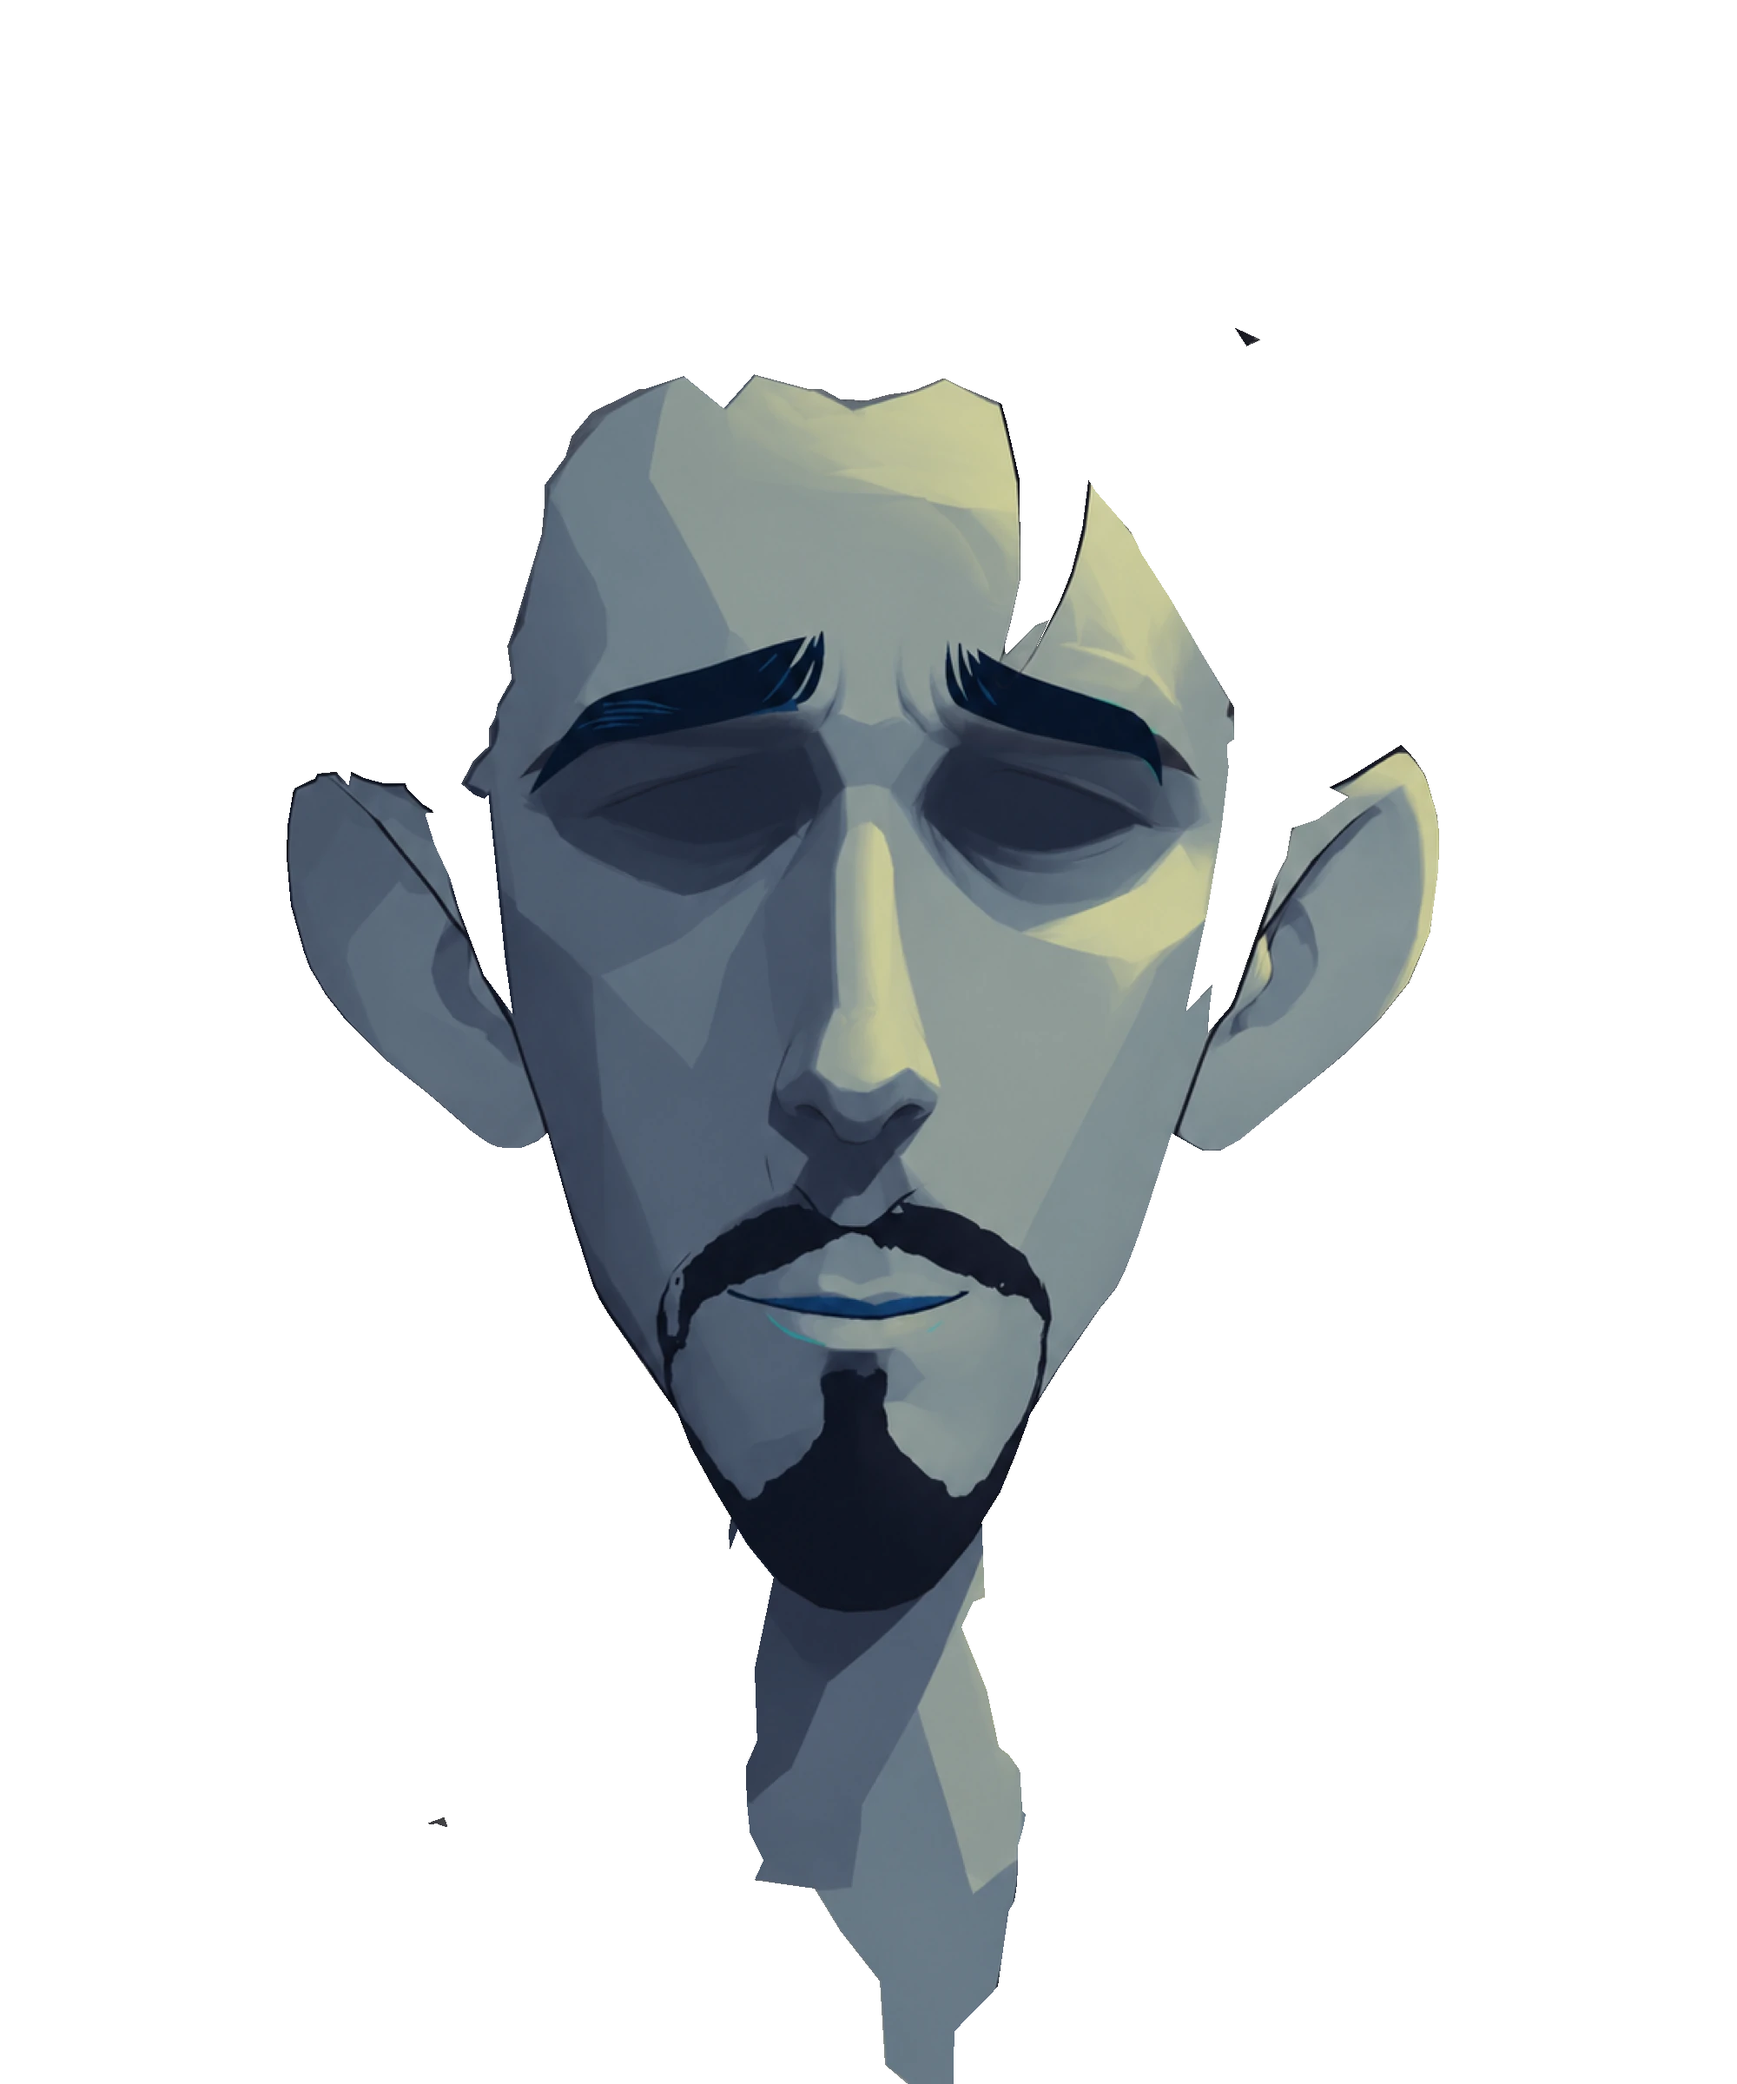
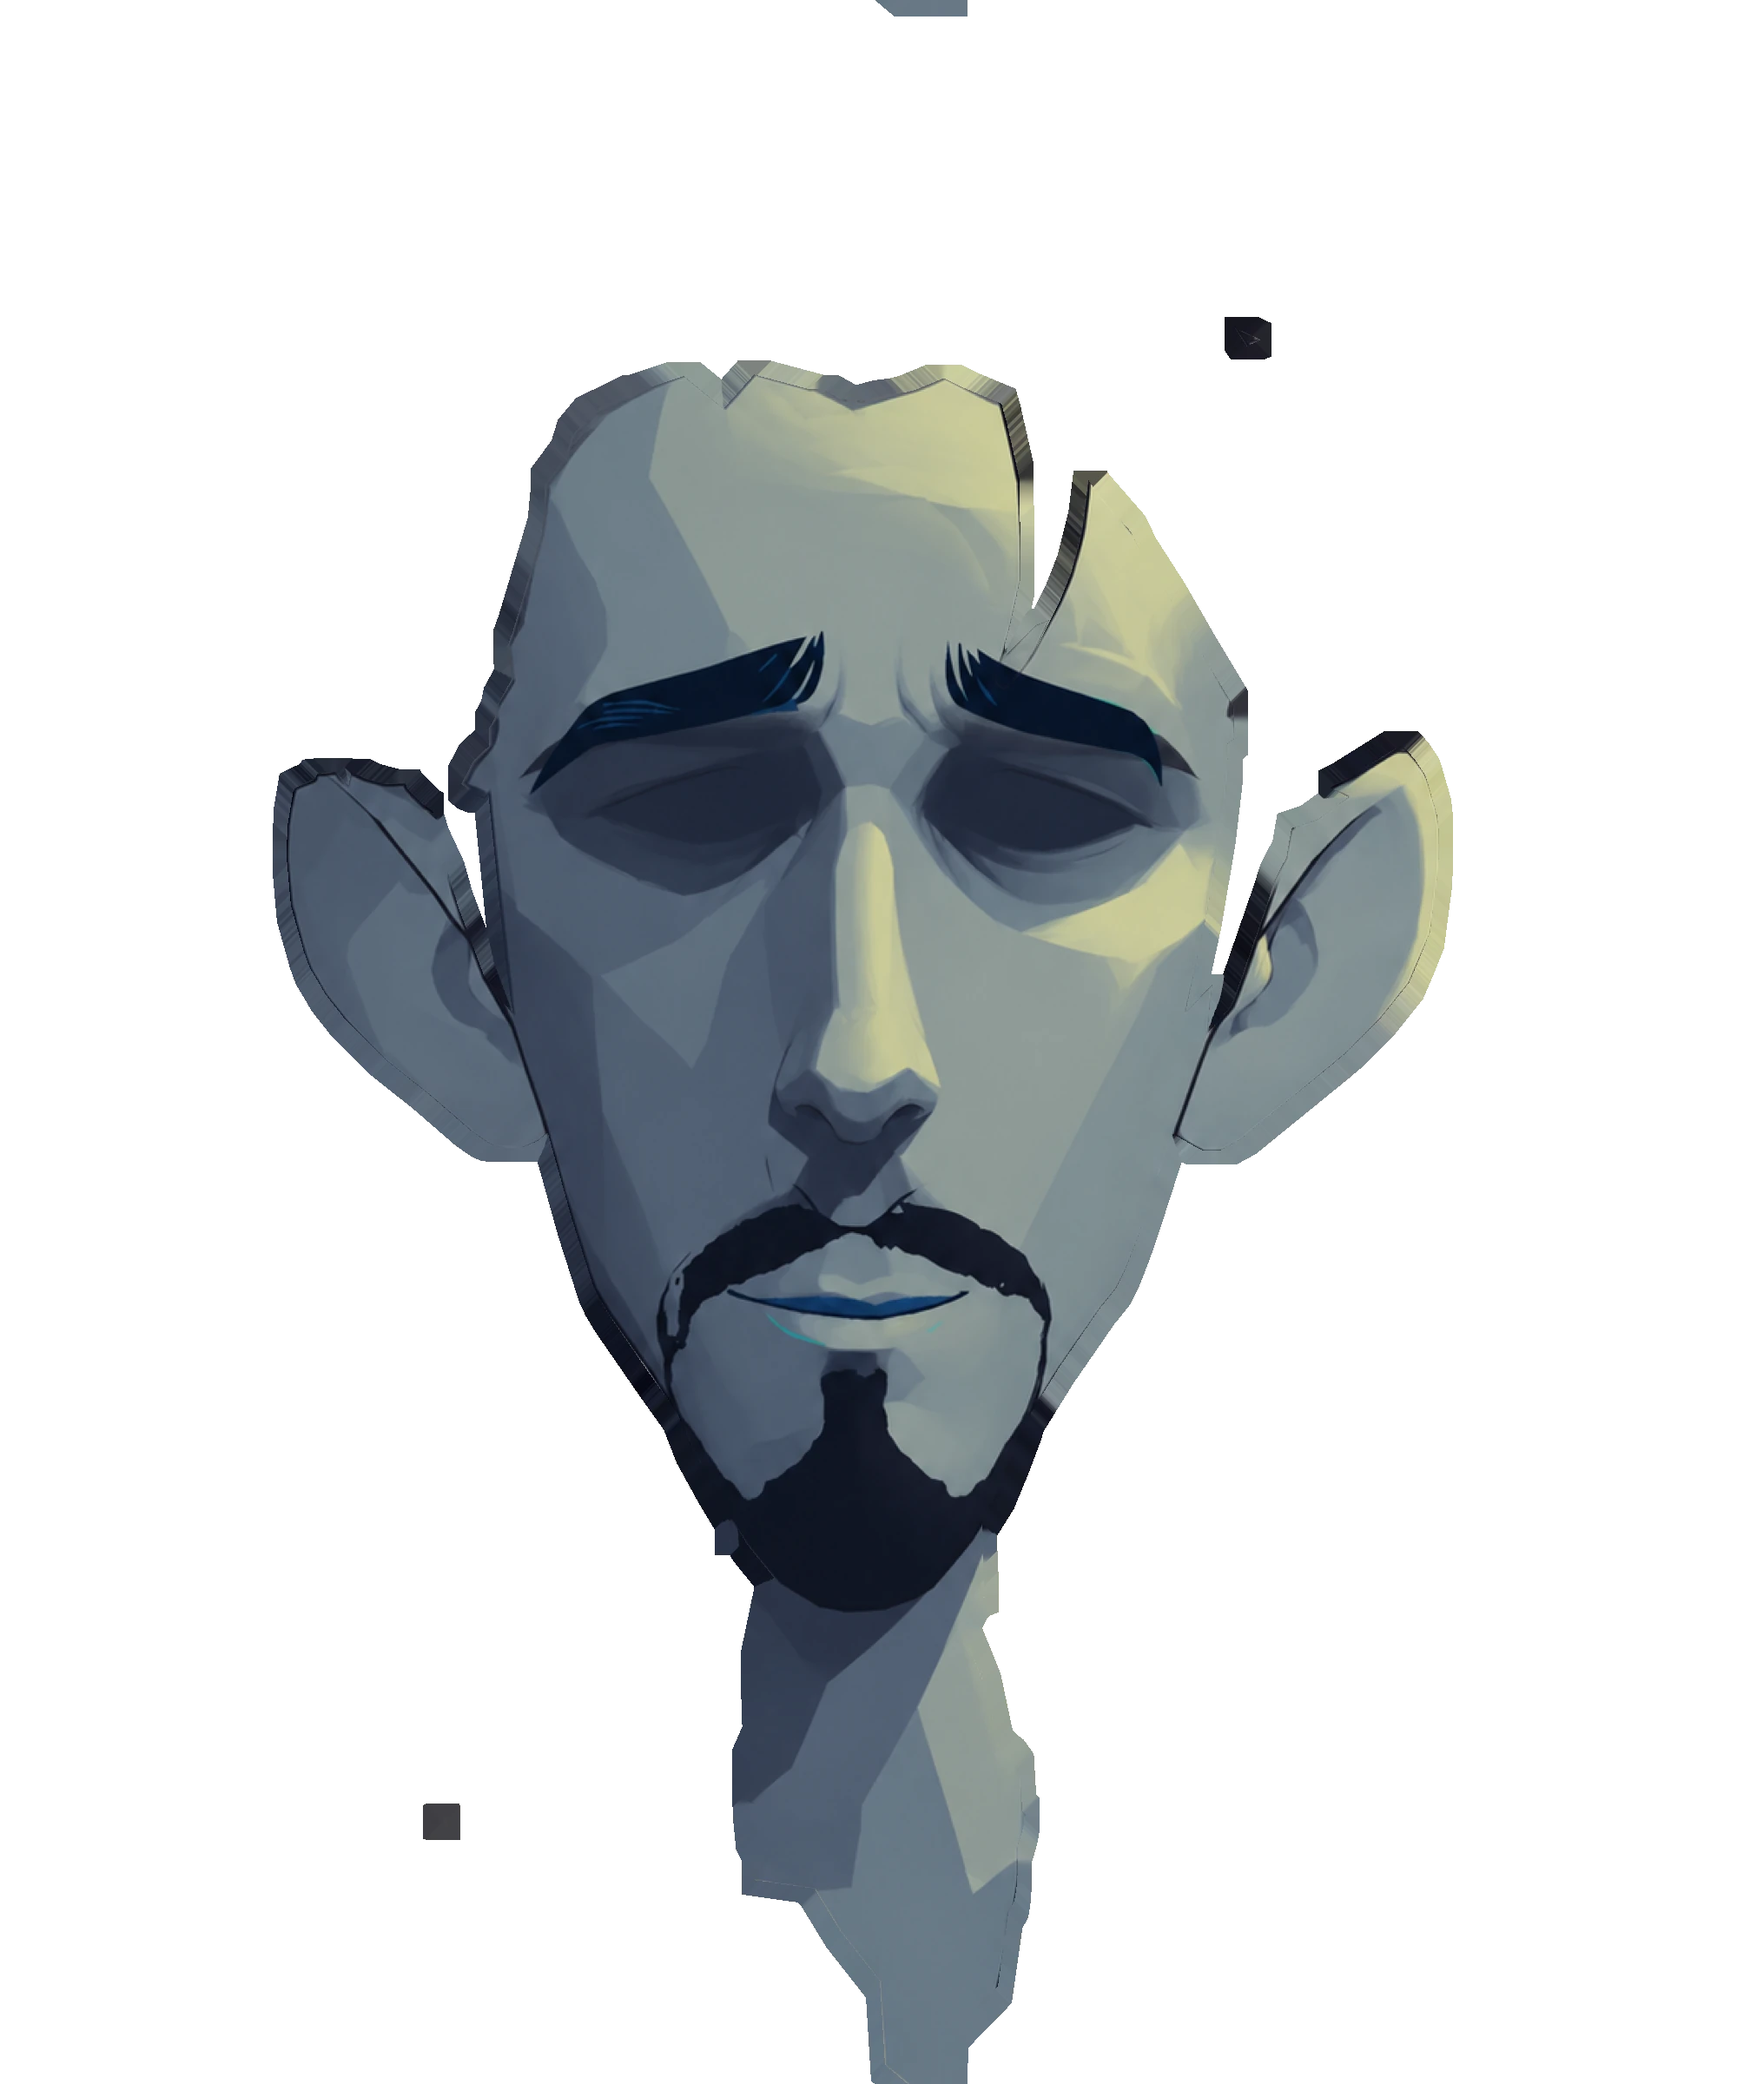
Hotsite: preenchimento escondido na borda da pintura do rosto do Jota
Claude-Session: https://claude.ai/code/session_01SB9GuWd5cVR4pW7JocgRn5

diff --git a/web/src/app/pt/enquanto-durar-a-fe/personagem-jota/jotaFigura.ts b/web/src/app/pt/enquanto-durar-a-fe/personagem-jota/jotaFigura.ts
@@ -28,7 +28,7 @@ const FACE_PARTS = [
 // numa caixa que cobre a cabeça (x/y: centro em metros; width/height: tamanho), e já traz
 // sobrancelhas, boca e as órbitas na sombra, então os desenhos 2D do rosto ficam escondidos.
 // Cabelo, corpo e roupa continuam com a luz 3D.
-const PAINTED_FACE = { file: "rosto-pintado.webp?v=2", x: -.047, y: 1.6, width: .3, height: .36 };
+const PAINTED_FACE = { file: "rosto-pintado.webp?v=3", x: -.047, y: 1.6, width: .3, height: .36 };
 const PAINTED_FACE_KEEPS: string[] = [];
 
 // paintedFace: usa o rosto pintado no lugar dos olhos e da boca desenhados.
